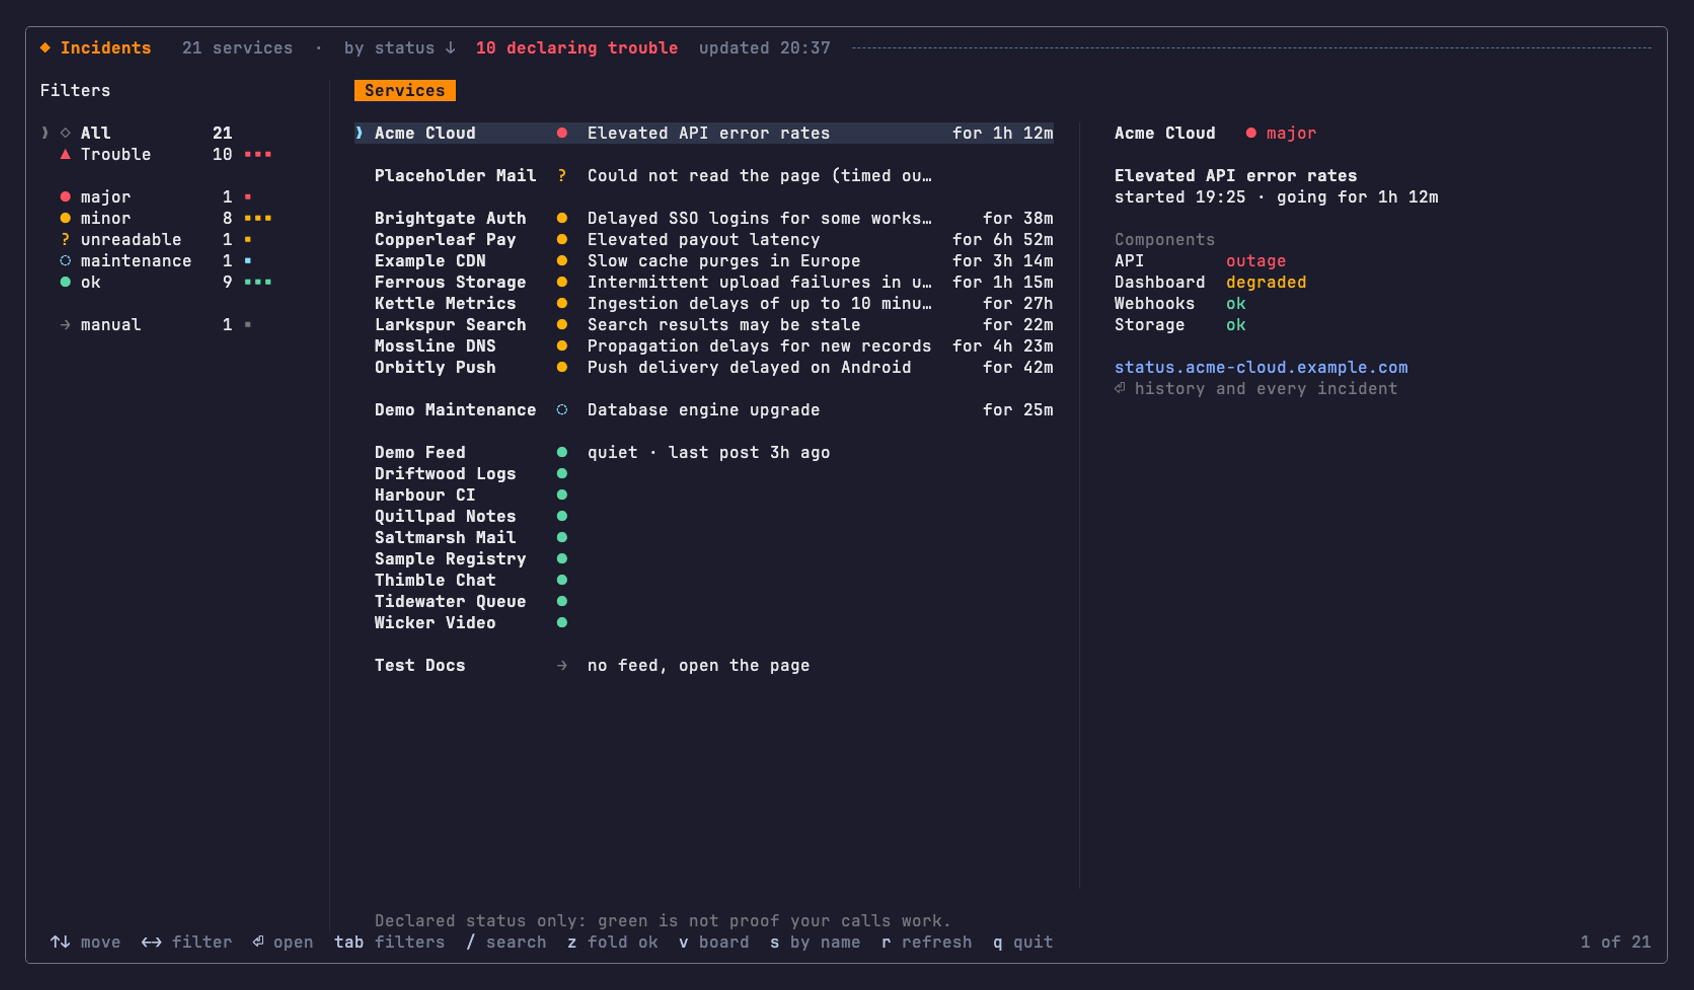
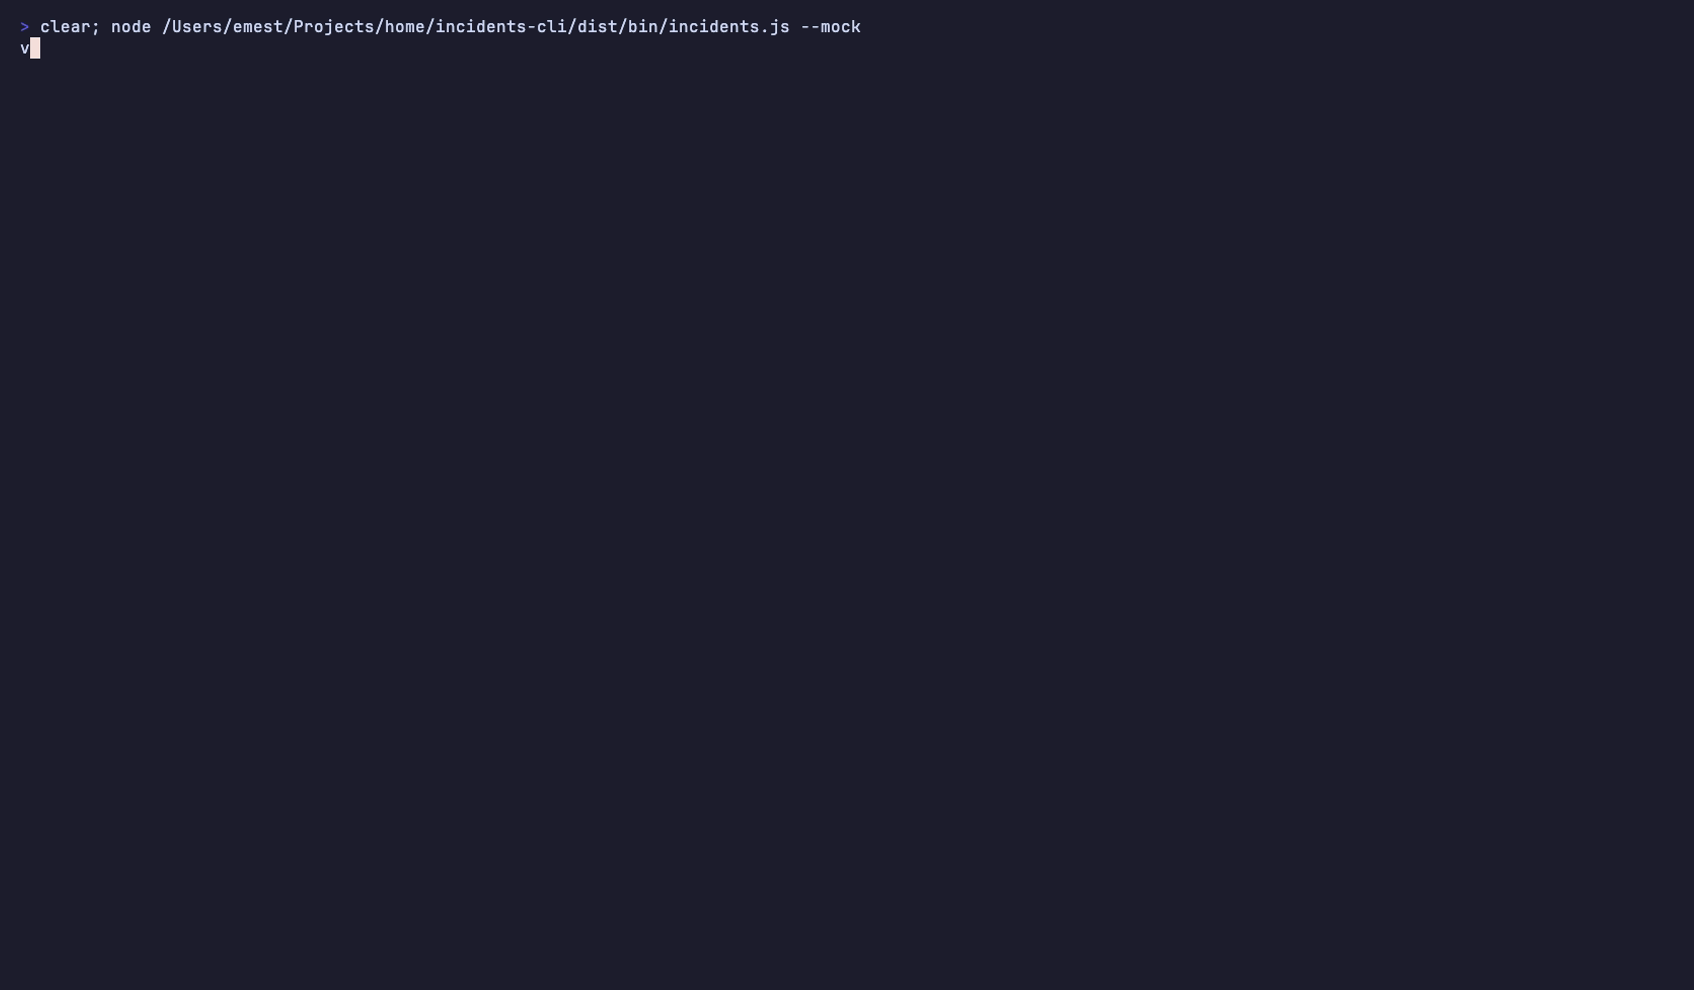
✨ feat(ui): group components by status at scale
- Sort broken components worst-first in byWorst (detail.tsx) and split them into "Affected components" and "In maintenance" groups.
- Add summary() to show per-status counts on one line when components exceed SHOWN (8), with the headings dropping their counts.
- Cap each group with a "+N more" row, and collapse the operational count into a single line.
- Make INK the terminal foreground (overview-parts.tsx) and switch focus markers to colors.accent in filter-column.tsx and overview-board.tsx.
- Truncate overflowing grid text with wrap="truncate-end" in overview-board.tsx, and replace the incident-counting Scroller note with plain row counts.

diff --git a/src/ui/detail.tsx b/src/ui/detail.tsx
@@ -89,8 +89,7 @@ const grid = (
     return { text: "", spans }
   })
 
-// Every bold text names its foreground: plain bold takes the terminal's bold
-// colour, which some themes paint in the warning orange.
+// Headings are bold in the terminal's own foreground (see INK).
 const heading = (title: string, count?: number): StyledLine => ({
   text: "",
   spans: [
@@ -194,6 +193,42 @@ const historyFailedLines = (record: ServiceRecord): StyledLine[] =>
 
 // What is happening now: open incidents first, then the components they hit,
 // then a count of the ones that are fine.
+// Worst first, then by name: outage, partial, degraded, then maintenance,
+// which is planned work rather than breakage and reads as its own group.
+const RANK: Record<string, number> = {
+  major_outage: 0,
+  partial_outage: 1,
+  degraded_performance: 2,
+  under_maintenance: 4,
+}
+const byWorst = <T extends { name: string; status: string }>(list: T[]): T[] =>
+  [...list].sort(
+    (a, b) =>
+      (RANK[a.status] ?? 3) - (RANK[b.status] ?? 3) ||
+      a.name.localeCompare(b.name),
+  )
+// A status page can list dozens of components; the pane shows the worst few.
+const SHOWN = 8
+
+// "69 affected · 21 partial · 48 maintenance", each count in its status's
+// colour, for a page with more components than the pane shows.
+const summary = (sorted: { status: string }[]): StyledLine => {
+  const counts = new Map<string, number>()
+  for (const c of sorted) counts.set(c.status, (counts.get(c.status) ?? 0) + 1)
+  const spans: Span[] = [
+    { text: " ".repeat(EDGE) },
+    { text: `${sorted.length} affected`, bold: true, color: INK },
+  ]
+  for (const [status, n] of counts) {
+    const label = wordLabel(status)
+    spans.push(
+      { text: " · ", color: colors.muted },
+      { text: `${n} ${label.text}`, color: TONE[label.tone] },
+    )
+  }
+  return { text: "", spans }
+}
+
 const nowLines = (
   record: ServiceRecord,
   width: number,
@@ -201,10 +236,29 @@ const nowLines = (
   tailWidth: number,
 ): StyledLine[] => {
   const { broken, healthy } = split(record)
-  const affected = broken.map((c) => ({
+  const row = (c: { name: string; status: string }) => ({
     lead: tone(wordLabel(c.status)),
     body: { text: c.name, color: INK },
-  }))
+  })
+  const sorted = byWorst(broken)
+  const breaking = sorted.filter((c) => c.status !== "under_maintenance")
+  const resting = sorted.filter((c) => c.status === "under_maintenance")
+  // At scale, one line of counts leads and the headings drop theirs.
+  const scale = broken.length > SHOWN
+  const group = (
+    title: string,
+    list: typeof broken,
+    shown: number,
+  ): StyledLine[] =>
+    list.length
+      ? [
+          heading(title, scale ? undefined : list.length),
+          ...grid(list.slice(0, shown).map(row), width, leadWidth, tailWidth),
+          ...(list.length > shown
+            ? [quiet(`+${list.length - shown} more`, ROW)]
+            : []),
+        ]
+      : []
   const open = record.active.map((i) => ({
     lead: tone(wordLabel(i.impact)),
     body: { text: i.title, bold: true, color: INK },
@@ -219,12 +273,13 @@ const nowLines = (
       heading("Open incidents", open.length),
       ...grid(open, width, leadWidth, tailWidth),
     ])
-  if (affected.length)
-    sections.push([
-      heading("Affected components", affected.length),
-      ...grid(affected, width, leadWidth, tailWidth),
-      ...(healthy > 0 ? [plain(`${healthy} more operational`, ROW)] : []),
-    ])
+  if (scale) sections.push([summary(sorted)])
+  const hit = group("Affected components", breaking, SHOWN)
+  if (hit.length) sections.push(hit)
+  const rest = group("In maintenance", resting, breaking.length ? 3 : SHOWN)
+  if (rest.length) sections.push(rest)
+  if (broken.length && healthy > 0)
+    sections.push([plain(`${healthy} more operational`)])
   else if (healthy > 0)
     sections.push([plain(`${healthy} components operational`)])
   return sections.flatMap((s, i) => (i ? [BLANK, ...s] : s))
@@ -269,9 +324,8 @@ const historyWidth = (record: ServiceRecord, at: number): number => {
   )
 }
 
-// A line the scroller shows, and whether it is an incident, so the note at
-// the cut counts incidents rather than lines.
-type Row = { line: StyledLine; entry?: boolean }
+// A line the scroller shows.
+type Row = { line: StyledLine }
 const rowsOf = (lines: StyledLine[]): Row[] => lines.map((line) => ({ line }))
 
 const historyRows = (
@@ -304,7 +358,7 @@ const historyRows = (
         0,
         tailWidth,
         at + 2,
-      ).map((line) => ({ line, entry: true })),
+      ).map((line) => ({ line })),
     )
   }
   return lines
@@ -414,9 +468,8 @@ const Scroller = ({
     },
     { isActive: isActive && !fits },
   )
-  const incidents = (part: Row[]) => part.filter((r) => r.entry).length
-  const above = incidents(rows.slice(0, top))
-  const below = incidents(rows.slice(top + room))
+  const above = top
+  const below = Math.max(0, rows.length - top - room)
   const note = [
     above ? `${above} more above` : "",
     below ? `${below} more below` : "",
@@ -513,7 +566,7 @@ export const DetailBody = ({
             <Scroller
               rows={sectionsRows(record, width, historyBusy)}
               height={room}
-              at={ROW + 2}
+              at={EDGE}
             />
           ) : (
             <PendingRows width={Math.min(48, width - EDGE)} />
@@ -543,7 +596,7 @@ export const DetailBody = ({
             width={right}
           >
             {history.length ? (
-              <Scroller rows={history} height={room} at={EDGE + 2} />
+              <Scroller rows={history} height={room} at={EDGE} />
             ) : !record || historyBusy ? (
               <PendingRows width={Math.min(60, right - EDGE)} rows={4} />
             ) : (

diff --git a/test/detail-layout.test.tsx b/test/detail-layout.test.tsx
@@ -152,3 +152,77 @@ describe("detail page height", () => {
     })
   }
 })
+
+describe("components at scale", () => {
+  const many = {
+    ...mockRecord(acme, true),
+    components: [
+      ...Array.from({ length: 20 }, (_, i) => ({
+        name: `Maint ${String(i).padStart(2, "0")}`,
+        status: "under_maintenance",
+      })),
+      ...Array.from({ length: 12 }, (_, i) => ({
+        name: `Zone ${String(i).padStart(2, "0")}`,
+        status: i % 3 ? "partial_outage" : "degraded_performance",
+      })),
+      { name: "Core API", status: "major_outage" },
+      { name: "Edge", status: "operational" },
+    ],
+  }
+
+  it("leads with counts, worst first, and keeps maintenance apart", () => {
+    const { frame, app } = mount(
+      <Box width={160} flexDirection="column" height={44}>
+        <DetailBody record={many} width={156} height={44} />
+      </Box>,
+      160,
+      44,
+    )
+    const out = frame()
+    app.unmount()
+    assert.match(
+      out,
+      /33 affected · 1 outage · 8 partial · 4 degraded · 20 maintenance/,
+    )
+    const lines = out.split("\n")
+    const rows = lines.filter((l) =>
+      /^ {3}(outage|partial|degraded) /.test(l.split("│")[0]),
+    )
+    // Eight breakage rows, the outage first, then the rest counted.
+    assert.equal(rows.length, 8, out)
+    assert.match(rows[0], /outage\s+Core API/)
+    assert.match(out, /\+5 more/)
+    assert.match(out, /In maintenance/)
+    assert.match(out, /\+17 more/)
+    // Side by side: the history pane is still there.
+    assert.match(out, /History/)
+    assert.match(out, /Delayed webhook delivery/)
+  })
+
+  it("counts the rows it cuts, on the content column", () => {
+    const { frame, app } = mount(
+      <Box width={120} flexDirection="column" height={20}>
+        <DetailBody
+          record={mockRecord(
+            mockSource(1).services.find((s) => s.id === "harbour-ci")!,
+            true,
+          )}
+          width={116}
+          height={20}
+        />
+      </Box>,
+      120,
+      20,
+    )
+    const out = frame()
+    app.unmount()
+    const lines = out.split("\n")
+    const note = lines.find((l) => /more below/.test(l))!
+    // 18 rows of room, the last one the note: every row past it is counted.
+    assert.ok(Number(/(\d+) more below/.exec(note)![1]) > 17, note)
+    assert.equal(
+      note.search(/\d/),
+      lines.find((l) => /● ok/.test(l))!.indexOf("●"),
+    )
+  })
+})

diff --git a/test/board.test.tsx b/test/board.test.tsx
@@ -252,3 +252,29 @@ describe("board arrows", () => {
       assert.doesNotMatch(bodyOf(l), /❯/)
   })
 })
+
+describe("grid while loading", () => {
+  it("cuts a long name with an ellipsis rather than wrapping it", async () => {
+    const { stdout, stdin } = terminal(120, 40)
+    const app = render(<App source={{ ...mockSource(400), view: "board" }} />, {
+      stdout: stdout as unknown as NodeJS.WriteStream,
+      stdin: stdin as unknown as NodeJS.ReadStream,
+      debug: true,
+      patchConsole: false,
+      exitOnCtrlC: false,
+    })
+    const frame = () => stripVTControlCharacters(stdout.frame)
+    await until(frame, /checking/)
+    await tick(1500)
+    const out = frame()
+    app.unmount()
+    // Every name a line holds starts it: no name's second word on its own.
+    for (const name of NAMES.filter((n) => n.includes(" "))) {
+      const [, rest] = name.split(" ")
+      const alone = out
+        .split("\n")
+        .some((l) => new RegExp(`│\\s+${rest}\\s`).test(l) && !l.includes(name))
+      assert.ok(!alone, `${name} wrapped\n${out}`)
+    }
+  })
+})

diff --git a/src/ui/overview-board.tsx b/src/ui/overview-board.tsx
@@ -196,16 +196,25 @@ const GridLine = ({
           backgroundColor={active && focused ? BAND : undefined}
         >
           <Marker active={active} focused={focused} />
-          <Text color={INK} bold>
+          {/* A cell too narrow for its text cuts it with an ellipsis rather
+              than wrapping a name onto a second line. */}
+          <Text color={INK} bold wrap="truncate-end">
             {r.service.name}
           </Text>
           <Text>{"  "}</Text>
           {r.record ? (
-            <Text color={TONE[label.tone]}>{label.text}</Text>
+            <Text color={TONE[label.tone]} wrap="truncate-end">
+              {label.text}
+            </Text>
           ) : (
             <Spinner label="checking" />
           )}
-          {extra ? <Text color={INK}> {extra}</Text> : null}
+          {extra ? (
+            <Text color={INK} wrap="truncate-end">
+              {" "}
+              {extra}
+            </Text>
+          ) : null}
         </Box>
       )
     })}

diff --git a/src/ui/overview-parts.tsx b/src/ui/overview-parts.tsx
@@ -26,10 +26,10 @@ export const TONE: Record<Tone, string> = {
   muted: colors.muted,
 }
 
-// Every bold text names its foreground. Plain bold falls back to the
-// terminal's "bold colour", which in some themes is the warning orange, and a
-// screen of service names then reads as a wall of alarms.
-export const INK = "#E6E6EB"
+// Normal text takes the terminal's own foreground, so it reads on a light
+// theme as well as a dark one: a fixed near-white vanished on a light ground.
+// The cost is a theme with a custom "bold colour", whose bold names take it.
+export const INK: string | undefined = undefined
 export const SOFT = colors.secondary
 export const BAND = colors.selection
 export const FRAME_SIDES = 4
@@ -71,7 +71,7 @@ export const Marker = ({
   active: boolean
   focused?: boolean
 }) => (
-  <Text color={focused ? colors.info : colors.muted}>
+  <Text color={focused ? colors.accent : colors.muted}>
     {active ? "❯ " : "  "}
   </Text>
 )

diff --git a/test/pane-title.test.tsx b/test/pane-title.test.tsx
@@ -23,7 +23,7 @@ describe("pane title", () => {
     assert.match(stripVTControlCharacters(out), /^ History {2}40/)
   })
 
-  it("leaves the unfocused title plain, in the text colour", () => {
+  it("leaves the unfocused title plain, in the terminal's foreground", () => {
     const { lastFrame, unmount } = render(
       <PaneTitle label="Now" focused={false} width={30} />,
     )
@@ -31,7 +31,8 @@ describe("pane title", () => {
     unmount()
     assert.ok(!out.includes("\u001b[48;"))
     assert.ok(!out.includes("\u001b[1m"))
-    assert.ok(out.includes("\u001b[38;2;230;230;235m"))
+    // The terminal's own foreground: no colour of its own.
+    assert.ok(!out.includes("\u001b[38;"))
     assert.match(stripVTControlCharacters(out), /^ Now/)
   })
 })

diff --git a/src/ui/filter-column.tsx b/src/ui/filter-column.tsx
@@ -104,7 +104,7 @@ export const FilterList = ({
         <Box key={item.id} flexDirection="column" flexShrink={0}>
           {breakBefore(i, items.length) ? <Text> </Text> : null}
           <Box backgroundColor={on && focused ? BAND : undefined}>
-            <Text color={focused ? colors.info : colors.muted}>
+            <Text color={focused ? colors.accent : colors.muted}>
               {on ? " ❯ " : "   "}
             </Text>
             <Text color={empty ? colors.muted : item.color}>
